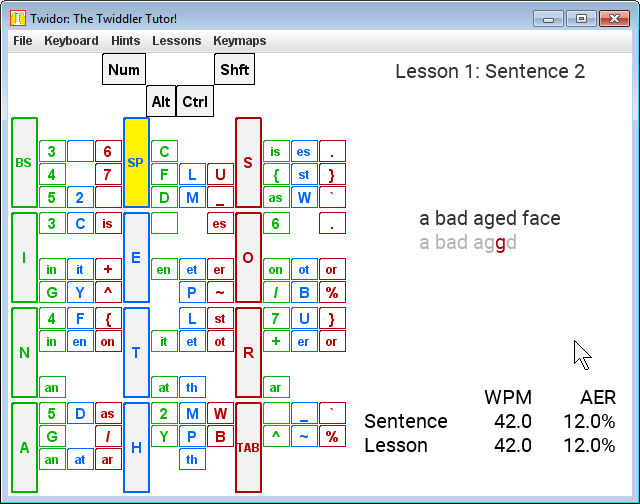
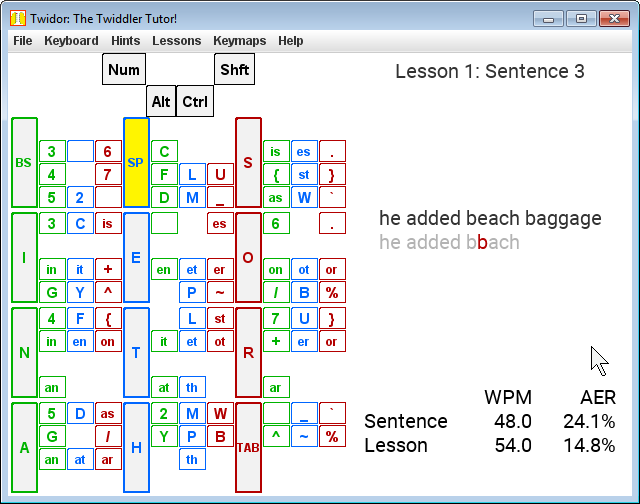
add Help > About menu item that links to README

diff --git a/src/Twidor.java b/src/Twidor.java
@@ -1,4 +1,4 @@
-/*  -*- indent-tabs-mode: t; tab-width: 8; c-basic-offset: 8 -*-
+/*  -*- indent-tabs-mode: t; tab-width: 4; c-basic-offset: 4 -*-
 Twidor: the twiddler typing tutor.
 Copyright (C) 2005	James Fusia
 Copyright (C) 2017	Carey Richard Murphey
@@ -405,6 +405,17 @@ public class Twidor extends JFrame implements TwidorConstants {
 		return showStats;
 	}// end showingStats ()
 
+	public static void openWebpage(String uri) {
+		java.awt.Desktop desktop = java.awt.Desktop.isDesktopSupported() ? java.awt.Desktop.getDesktop() : null;
+		if (desktop != null && desktop.isSupported(java.awt.Desktop.Action.BROWSE)) {
+			try {
+				desktop.browse(java.net.URI.create(uri));
+			} catch (Exception e) {
+				e.printStackTrace();
+			}
+		}
+	}
+
 	/**
 	 * Accessor for the EventHandler to inform the Tutor a key has been
 	 * pressed.
@@ -531,6 +542,10 @@ public class Twidor extends JFrame implements TwidorConstants {
                 }
 		else if (option.startsWith("Lesson")) {
 			setLesson(option);
+		}
+		else if (option.equals("About")) {
+			openWebpage("https://github.com/rich-murphey/twidor");
+			return;
 		}
 
 		for (int i = 0; i < KEYMAPS.length; i++) {

diff --git a/src/TwidorMenu.java b/src/TwidorMenu.java
@@ -130,6 +130,11 @@ public class TwidorMenu extends JMenuBar implements TwidorConstants {
 		}
 		add(menu);
 
+		menu = new JMenu("Help");
+		jmItem = jmenuItem("About");
+		menu.add(jmItem);
+		add(menu);
+
 		if (bDEBUG) System.out.println("TwidorMenu: Finished Creating");
 	}// end TwidorMenu (Twidor, EventHandler)
 
